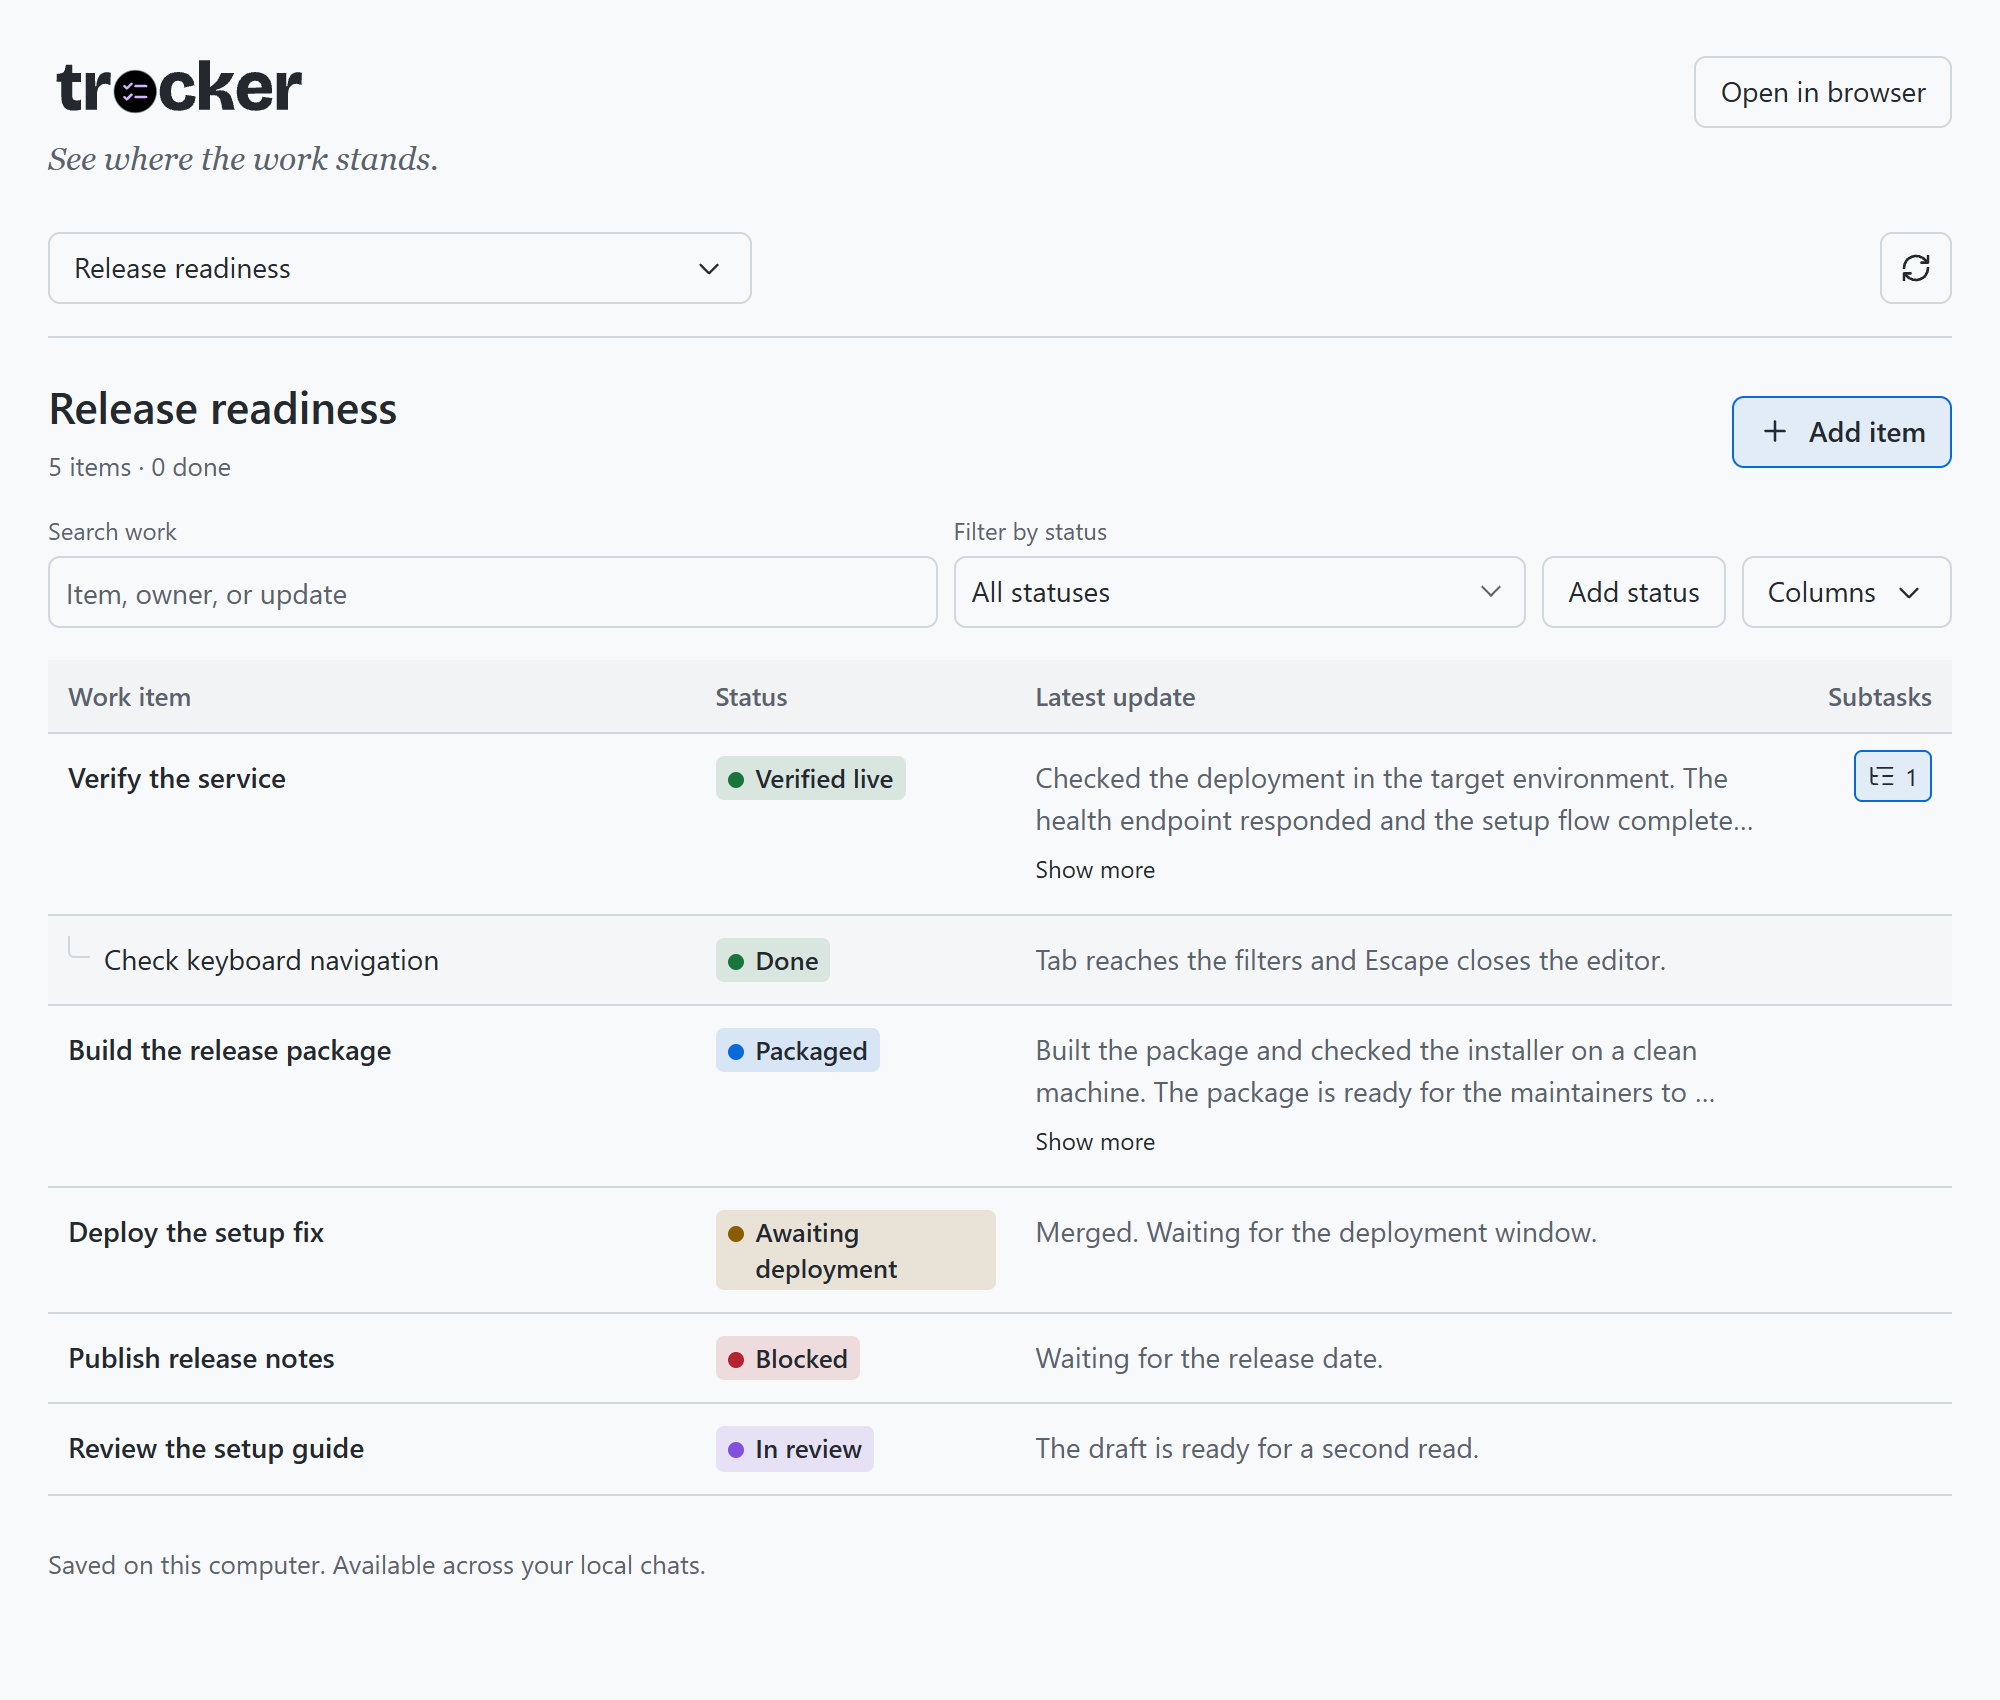
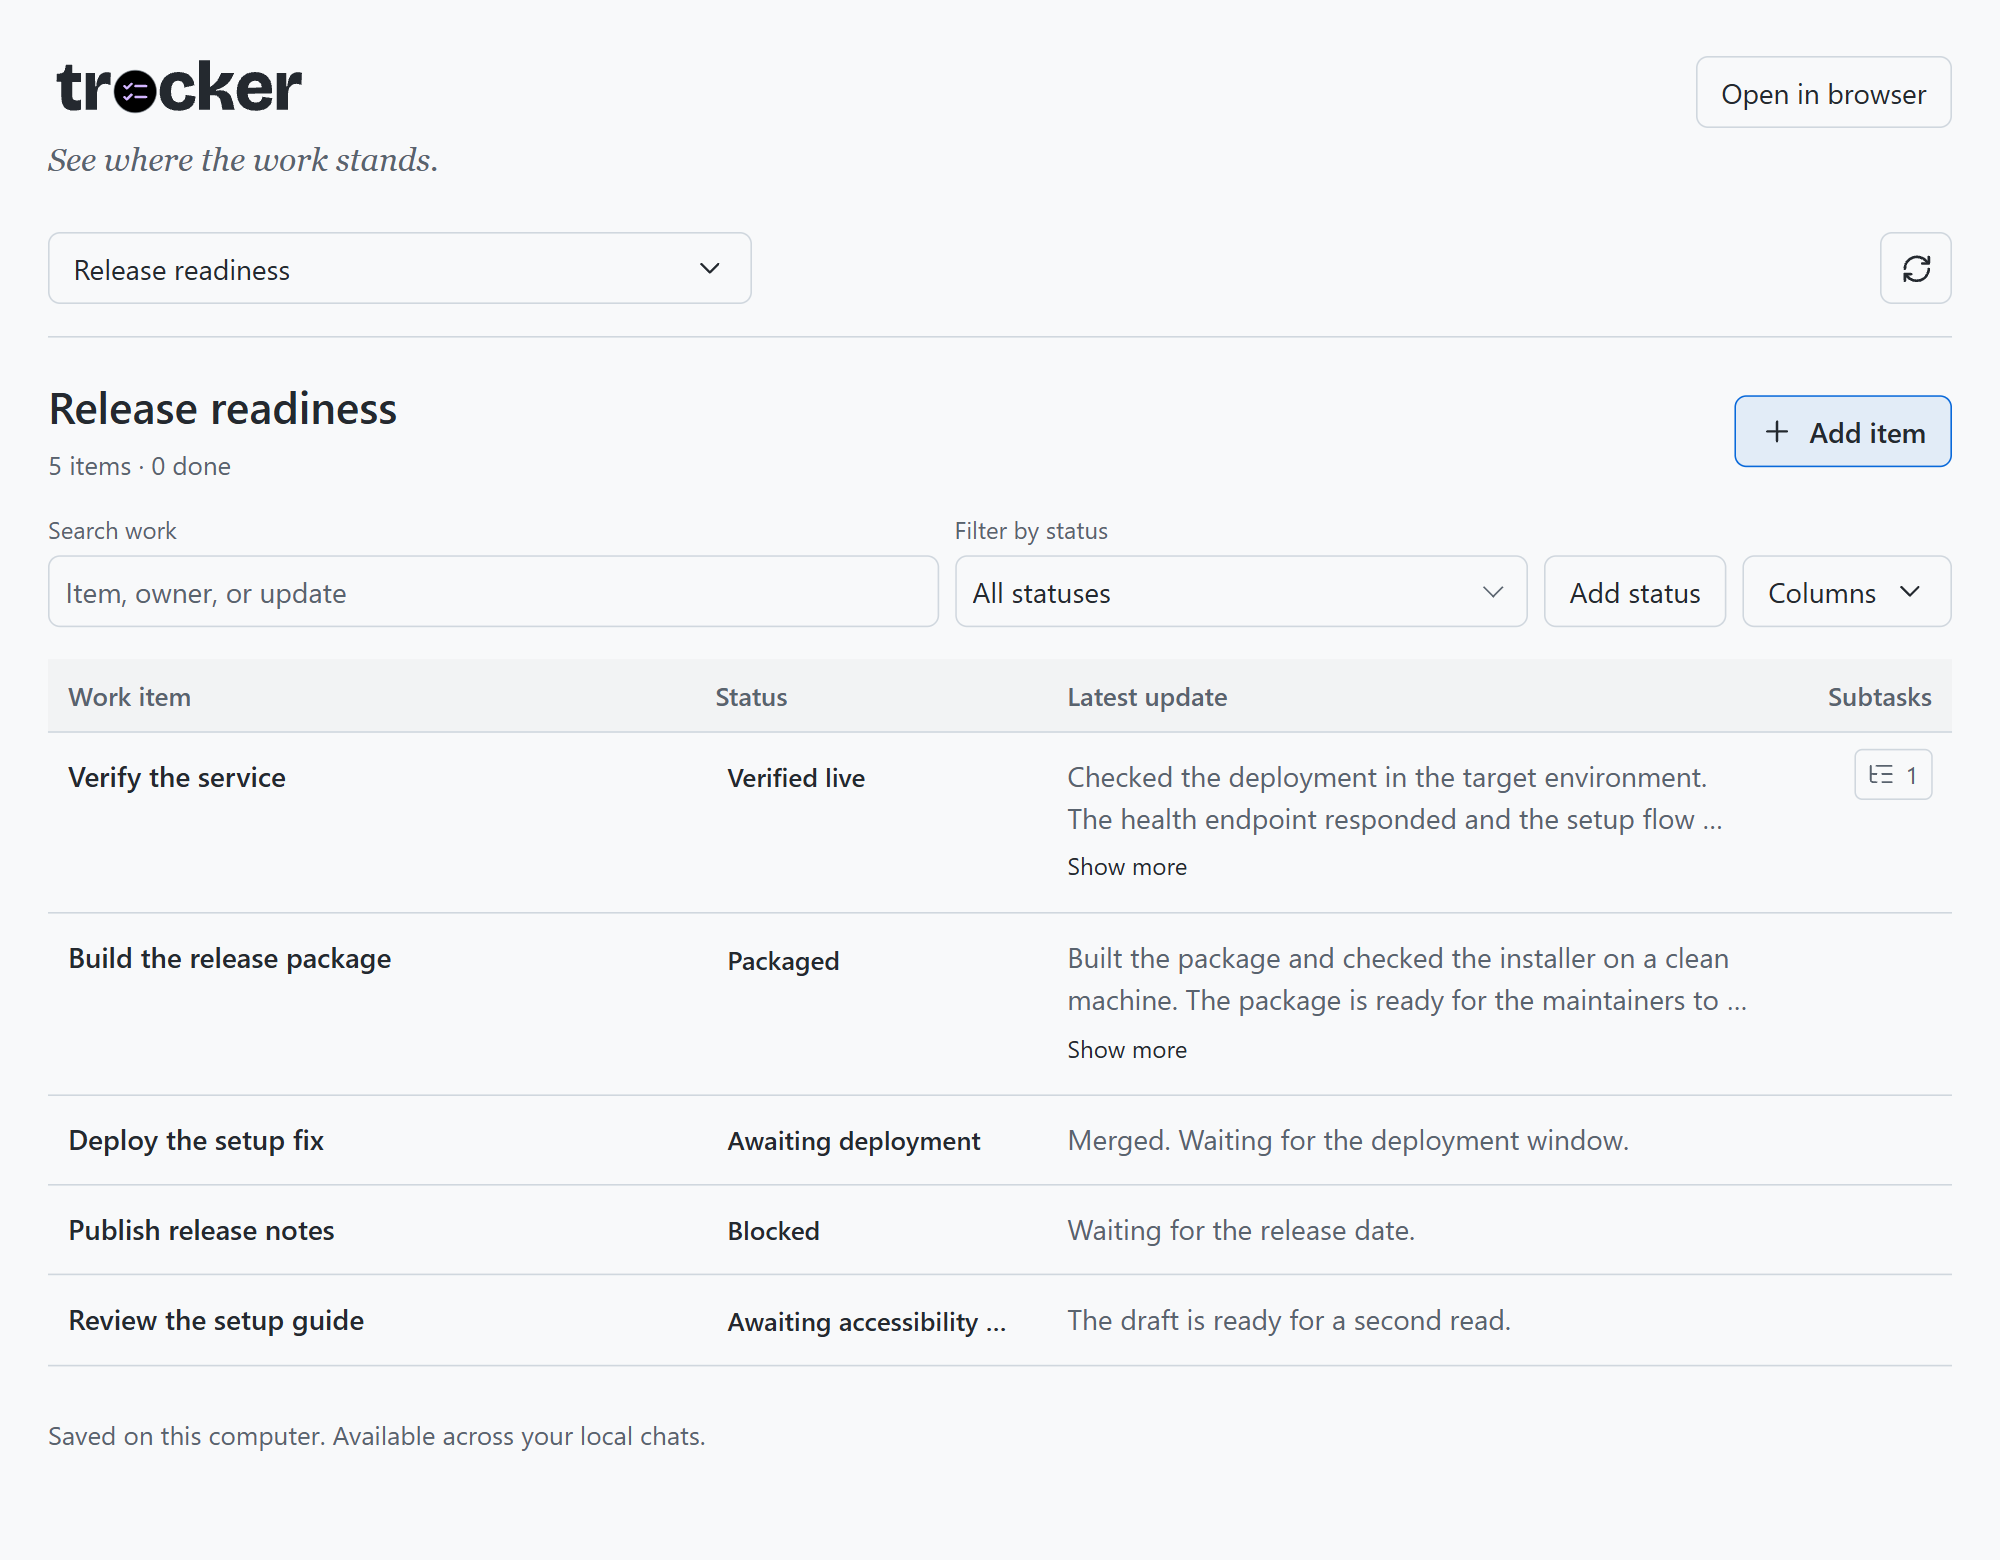
Simplify Tracker statuses and usage guide

diff --git a/apps/tracker/style.css b/apps/tracker/style.css
@@ -52,7 +52,7 @@ thead th {
 }
 thead th:first-child { width: 34%; }
 table:has(#update-column[hidden]) thead th:first-child { width: auto; }
-#status-column { width: 10rem; }
+#status-column { width: 11rem; }
 tbody th { font-weight: 400; }
 tbody tr:hover { background: var(--hover); }
 .subtask-row th { padding-inline-start: 28px; }
@@ -103,15 +103,14 @@ button.subtask-toggle[aria-expanded="true"] { background: var(--selected); borde
 .note-toggle:hover { text-decoration: underline; }
 .narrow-note { display: none; }
 .status {
-    display: inline-flex; align-items: baseline; gap: 6px; max-width: 100%; padding: 2px 6px;
-    border-radius: 4px; background: color-mix(in srgb, var(--status-color, var(--muted)) 14%, var(--surface));
+    display: inline-block; vertical-align: top; max-inline-size: 100%; padding: 2px 6px;
+    overflow: hidden; white-space: nowrap; text-overflow: ellipsis; border-radius: 4px;
     color: var(--ink); font-size: .8125rem; font-weight: 600; line-height: 1.4;
 }
-:is(.status, .status-heading):focus-visible { outline: 2px solid var(--accent); outline-offset: 3px; border-radius: 2px; }
-.status::before {
-    content: ""; width: 8px; height: 8px; flex: 0 0 8px;
-    background: var(--status-color, var(--muted)); border-radius: 50%;
+.status:is(:hover, :focus-visible) {
+    background: color-mix(in srgb, var(--status-color, var(--muted)) 19%, var(--surface));
 }
+:is(.status, .status-heading):focus-visible { outline: 2px solid var(--accent); outline-offset: 3px; border-radius: 2px; }
 .status[data-tone="blue"] { --status-color: var(--true-color-blue, light-dark(#0969da, #58a6ff)); }
 .status[data-tone="purple"] { --status-color: var(--true-color-purple, light-dark(#8250df, #bc8cff)); }
 .status[data-tone="teal"] { --status-color: light-dark(#137d83, #56d4dd); }
@@ -164,7 +163,7 @@ input[type="radio"].session-choice { flex: 0 0 auto; width: 14px; height: 14px; 
 }
 @container (width < 33rem) {
     thead th:first-child { width: auto; }
-    #status-column { width: 35%; }
+    #status-column { width: min(11rem, 46%); }
     .subtasks-column { width: 4.25rem; font-size: .75rem; }
     :is(.subtasks-column, .subtasks-cell) { padding-inline: 3px 6px; }
     .wide-note { display: none; }

diff --git a/apps/tracker/app.js b/apps/tracker/app.js
@@ -278,7 +278,7 @@ function row(item, status, { parent, contextOnly = false, showSubtasksColumn, su
     badge.dataset.tone = status.tone;
     badge.textContent = status.label;
     const tip = status.tooltip || statusTips.get(status.id) || "A custom status for this tracker.";
-    badge.dataset.tip = tip;
+    badge.dataset.tip = `${status.label}: ${tip}`;
     badge.tabIndex = 0;
     badge.dataset.focus = `status-${item.id}`;
     const description = document.createElement("span");

diff --git a/apps/tracker/README.md b/apps/tracker/README.md
@@ -4,23 +4,27 @@ Keep a work list for a release, a handoff, or your own projects. Update it in th
 
 ![Tracker showing release statuses, two-line update previews, and the Columns control](screenshot-table-view.png)
 
-## Use Tracker without a prompt
+## Use
 
-In the GitHub Copilot app, open **Canvas apps** and choose **Tracker**. If it isn't listed, [install it first](#install). Open the tracker menu and choose **New tracker**, or select a tracker you've already saved.
+### In the canvas
 
-Choose **Add item** or select an item's title to edit it. Items can have an owner, an update, and a source link. Search titles, owners, and updates, or use **Filter by status**.
+In the GitHub Copilot app, open **Canvas apps** and choose **Tracker**. If it isn't listed, [install it first](#install). Open the **Trackers** menu to create or open a list.
 
-New items start at **To do** unless a status filter is active. Hover over a status or focus it with the keyboard to see what it means. For example, **Awaiting deployment** means the change is merged and isn't live yet. Use **Add status** for a custom label and an optional hover tip. [See all statuses](actions.md#built-in-statuses).
+Choose **Add item** or select an item's title to edit it. Items can have an owner, an update, and a source link.
 
-Use **Columns** to show or hide Status, Latest update, and Subtasks. Long updates start at two lines. Choose **Show more** to read the full update and **Show less** to collapse it. Search still checks the full update.
+New items start at **To do** unless a status filter is active. Hover over a status or focus it with the keyboard to see the full label and what it means. **Awaiting deployment**, for example, means the change is merged but isn't live. Use **Add status** for a custom label and an optional tip. [See all statuses](actions.md#built-in-statuses).
 
 To add a subtask, pick a parent in **Add under**. Subtasks start collapsed; use the count at the right of a row to open them, or **Expand all** when several rows have subtasks. If a subtask matches a search or filter, its parent appears without expanding. Each subtask has its own status.
 
-Link a Copilot session when you create a tracker or from the **Trackers** menu. The session name appears above the table and groups trackers in the menu. Choose **No session linked** to unlink it.
+Link a Copilot session when you create a tracker or from the **Trackers** menu. The session name appears above the table and groups trackers in the menu. Choose **No session linked** to unlink it. Linking doesn't make plans, pull requests, or sessions update your tracker automatically.
 
-Trackers stay on this computer and can be opened from other local chats. Plans, pull requests, and sessions don't update them automatically.
+#### Filter and adjust the table
 
-## Hide or delete work
+Search titles, owners, and updates, or use **Filter by status**. Use **Columns** to show or hide Status, Latest update, and Subtasks.
+
+Long updates start at two lines. Choose **Show more** to read the full update and **Show less** to collapse it. Search still checks the full update.
+
+#### Hide or delete work
 
 Select an item's title to open its editor. Check **Hide item** and save to keep it out of the list without deleting it. Hiding a parent also hides its subtasks. To restore an item, turn on **Show hidden items**, open the item, clear **Hide item**, and save.
 
@@ -30,9 +34,11 @@ To delete one item, choose **Delete item** in its editor and confirm. If the ite
 
 ![Delete tracker confirmation naming the tracker and what will be deleted](screenshot-delete-tracker.png)
 
-## Track work from a coding session
+### With a Copilot prompt
 
-If you want Copilot to fill in the tracker, paste this into the session where the work is happening. Replace `[tracker name]` with the name you want to use.
+#### Track work from a coding session
+
+Paste this into the session where the work is happening and replace `[tracker name]`.
 
 ```text
 Use the Tracker Canvas app to record the work from this coding session in
@@ -47,9 +53,9 @@ Show me the tracker when you're done.
 
 To link the tracker to the session as well, add: "Link this tracker to the current Copilot session."
 
-To open a saved tracker from chat, you can just ask: "Open the Release readiness tracker in Tracker."
+To open a saved tracker from any local chat, ask: "Open the Release readiness tracker in Tracker."
 
-## Turn Thoughts into work items (optional)
+#### Turn Thoughts into work items (optional)
 
 Paste this into Copilot with both [Thoughts](../thoughts/README.md) and Tracker installed. Name a few thoughts, ask for all open thoughts, or ask for every saved thought, including completed ones.
 
